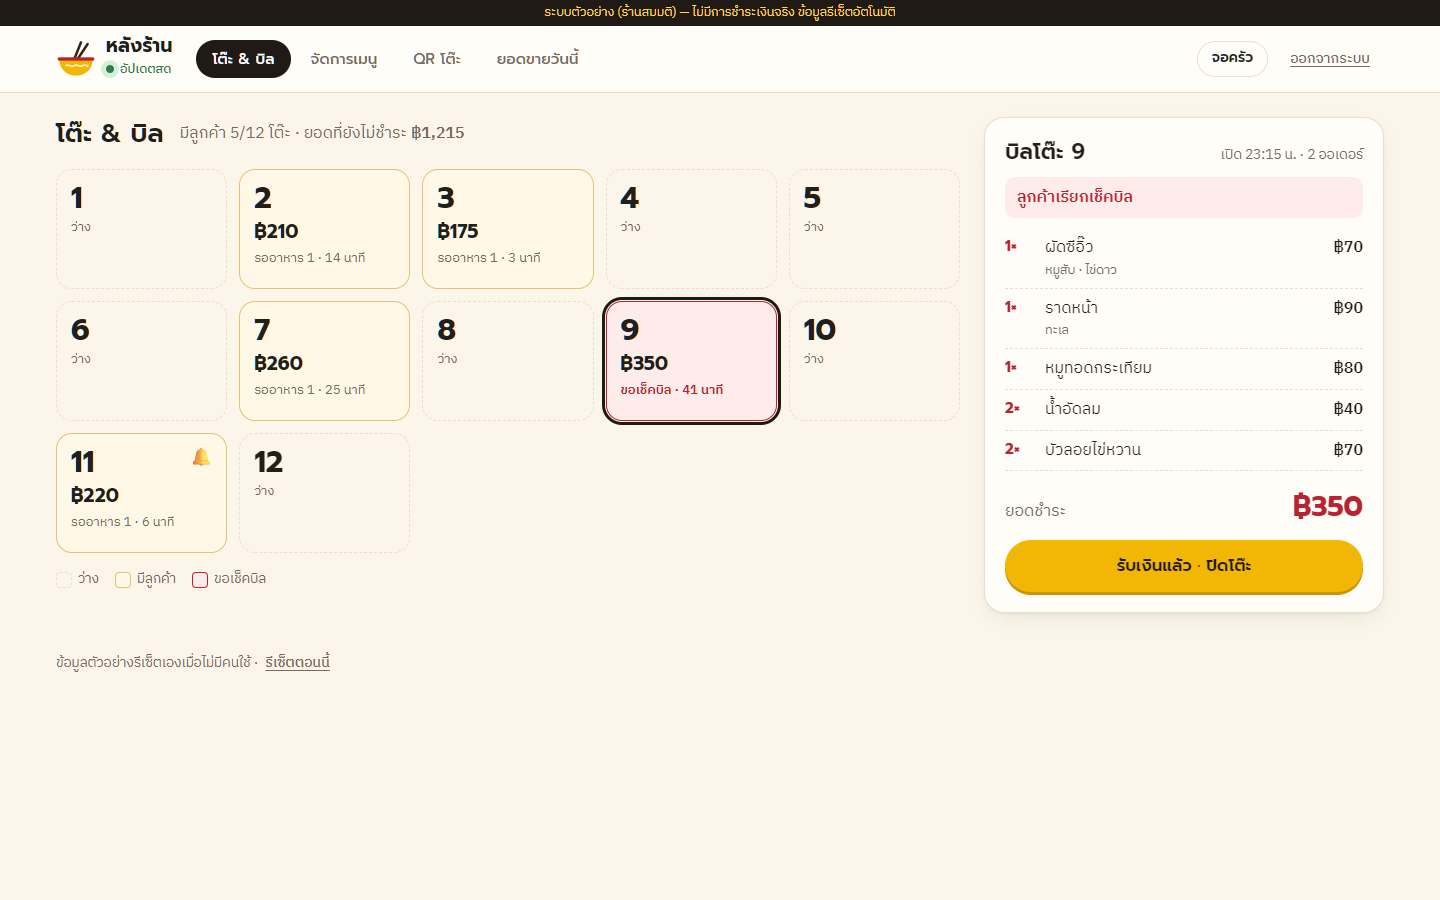
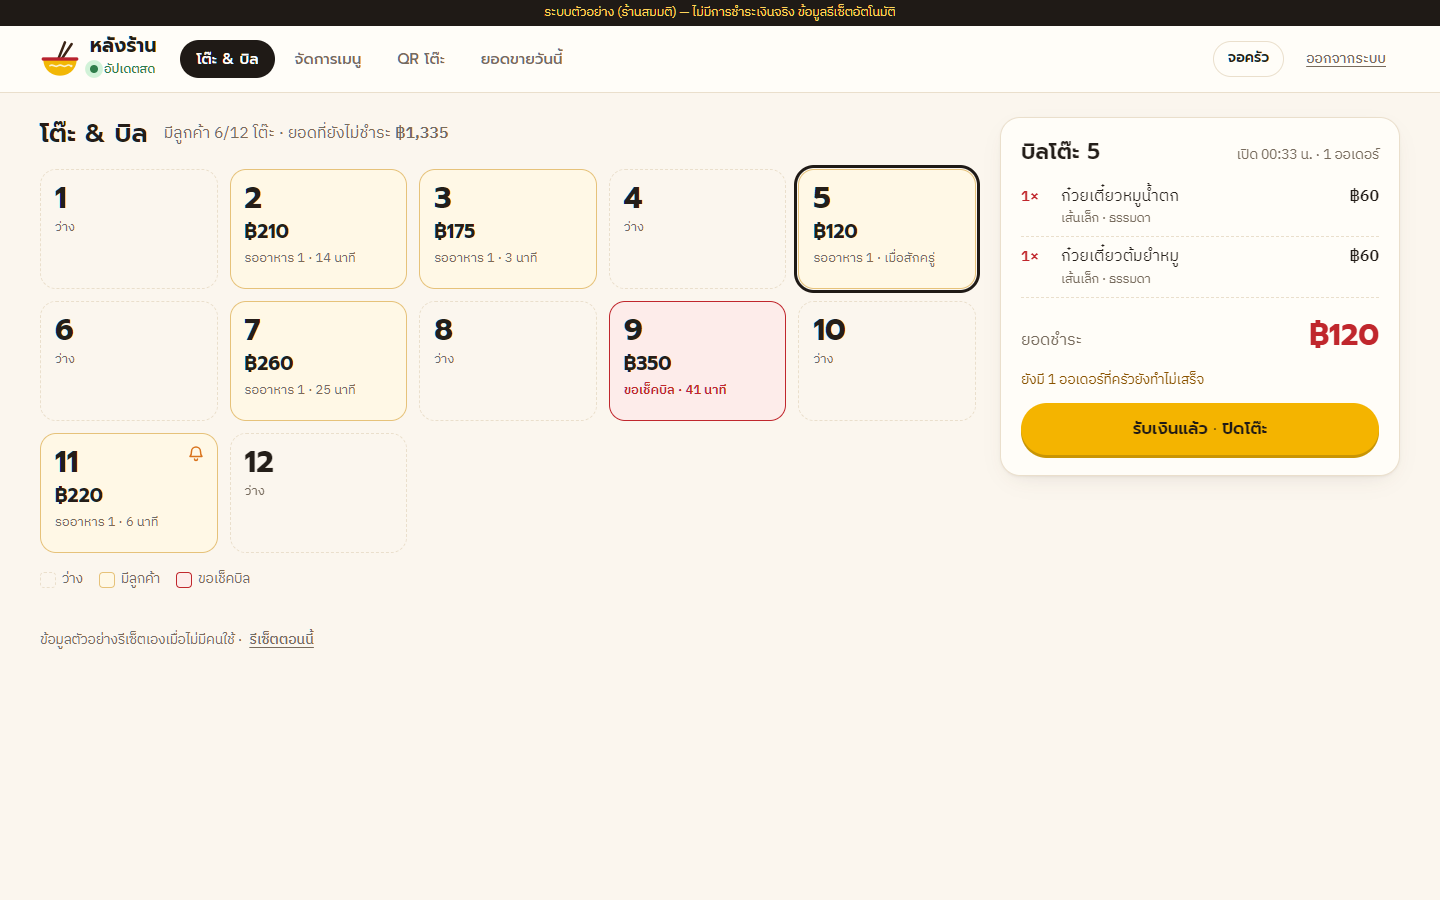
docs: refresh README screenshots for the new UI

diff --git a/src/index.css b/src/index.css
@@ -3301,7 +3301,8 @@ code {
   bottom: calc(92px + env(safe-area-inset-bottom));
 }
 
-.olines .q {
+.olines .q,
+.billp-lines .q {
   font-family: var(--body);
 }
 

diff --git a/README.md b/README.md
@@ -15,7 +15,8 @@
 ![หน้าสั่งอาหารบนมือถือ](docs/menu.png)
 
 ## ฝั่งลูกค้า (มือถือ ไม่ต้องลงแอป)
-- เมนูแบ่งหมวด มีรูปทุกจาน และแสดงราคาชัดเจน
+- เมนูแบ่งหมวด แถบหมวดติดด้านบนเลื่อนตามหน้าจอ มีรูปทุกจาน และแสดงราคาชัดเจน
+- เมนูที่ไม่มีตัวเลือก (ของทานเล่น น้ำ ของหวาน) กด + ครั้งเดียวลงตะกร้าเลย
 - เลือกตัวเลือกได้ เช่น เส้น ขนาด เนื้อสัตว์ เพิ่มไข่ ความเผ็ด ความหวาน พร้อมช่องหมายเหตุถึงครัว
 - ตะกร้ารวมของทั้งโต๊ะ ส่งออเดอร์ได้ในคลิกเดียว และสั่งเพิ่มได้ตลอด
 - ติดตามสถานะอาหารแบบสด: รับแล้ว → กำลังทำ → พร้อมเสิร์ฟ → เสิร์ฟแล้ว
@@ -25,7 +26,8 @@
 ## จอครัว
 ![จอครัว](docs/kitchen.png)
 
-- บอร์ดแบ่ง 3 คอลัมน์: ใหม่ / กำลังทำ / พร้อมเสิร์ฟ ออเดอร์ใหม่เด้งขึ้นพร้อมเสียงและไฮไลต์
+- บอร์ดแบ่ง 4 คอลัมน์: ใหม่ / กำลังทำ / พร้อมเสิร์ฟ / เพิ่งเสิร์ฟ (กดย้อนได้ถ้ากดพลาด) ออเดอร์ใหม่เด้งขึ้นพร้อมเสียงและไฮไลต์
+- แถบสรุปด้านบน: จำนวนออเดอร์แต่ละสถานะ และออเดอร์ที่รอนานที่สุด
 - แตะครั้งเดียวเพื่อเลื่อนสถานะ และย้อนสถานะได้ถ้ากดพลาด
 - การ์ดเปลี่ยนสีเมื่อออเดอร์รอนานเกิน 10 นาที และ 20 นาที
 - หมายเหตุ เช่น แพ้อาหาร หรือไม่ใส่ผัก ไฮไลต์เด่นจนมองไม่พลาด
